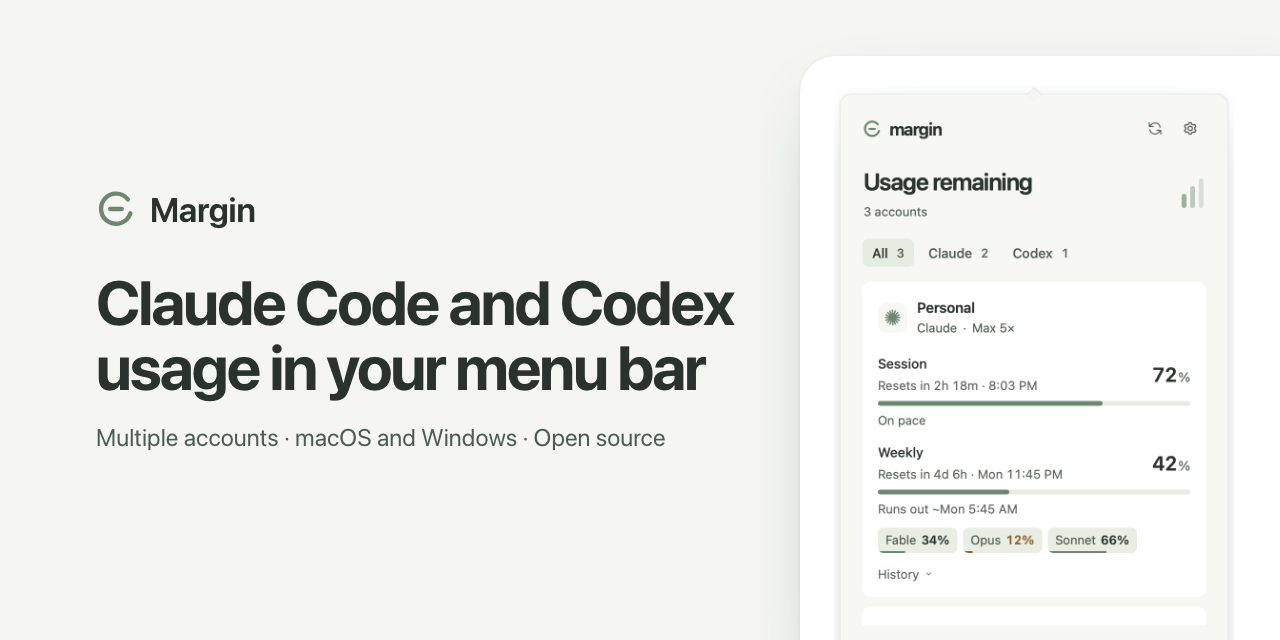
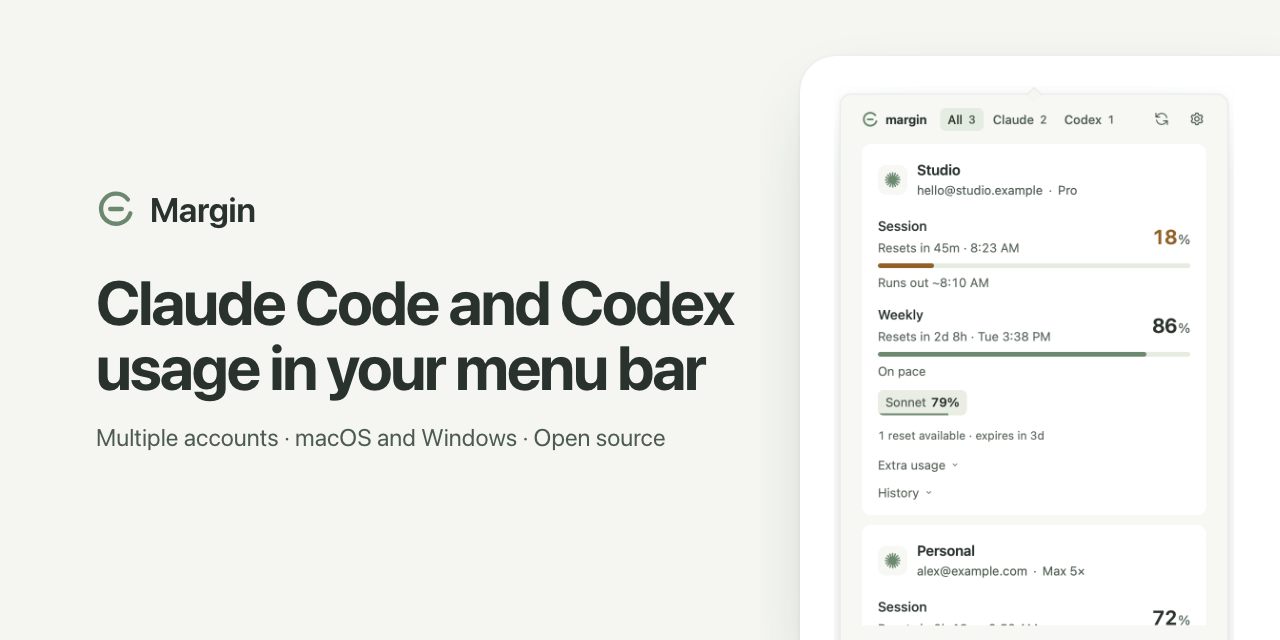
Release v0.6.0

diff --git a/docs/releasing.md b/docs/releasing.md
@@ -60,9 +60,9 @@ This ignored integration test uses the pinned updater plugin and real public key
 
 v0.1.1 and earlier have no updater and need one manual upgrade to the first updater-enabled release. Publish the complete asset set together; a draft does not replace the current public update endpoint. Never edit a published release's signed files or reuse a version. To stop offering a bad release, mark it as a prerelease so the latest-release endpoint returns to the previous stable release, then ship a higher fixed version. Clients already updated do not automatically downgrade.
 
-## Roll back v0.5.1
+## Roll back v0.6.0
 
-Quit Margin and reinstall [v0.5.0](https://github.com/Abulkosim/margin/releases/tag/v0.5.0); the settings format is identical. To go back further, reinstall [v0.4.0](https://github.com/Abulkosim/margin/releases/tag/v0.4.0): it drops the v0.5 fields (`trayMetric`, `trayShowPercent`, `overviewLayout`, `notifyOnReset`, `autoCheckUpdates`, `ignoredSources`, `lastUpdateCheckAt`) with recovery notes and keeps accounts, intervals, theme, and history. Removed accounts may reappear on Find accounts. CLI credentials remain untouched. Report the failed interaction and platform, then ship the fix as a new patch release.
+Quit Margin and reinstall [v0.5.1](https://github.com/Abulkosim/margin/releases/tag/v0.5.1). It ignores the new `accountOrder` setting and keeps everything else. History files keep the same format; v0.6.0 only stores fewer points on flat stretches. To go back further, reinstall [v0.4.0](https://github.com/Abulkosim/margin/releases/tag/v0.4.0): it drops the v0.5 fields (`trayMetric`, `trayShowPercent`, `overviewLayout`, `notifyOnReset`, `autoCheckUpdates`, `ignoredSources`, `lastUpdateCheckAt`) with recovery notes and keeps accounts, intervals, theme, and history. Removed accounts may reappear on Find accounts. CLI credentials remain untouched. Report the failed interaction and platform, then ship the fix as a new patch release.
 
 ## Package managers
 

diff --git a/README.md b/README.md
@@ -43,12 +43,12 @@ CodexBar supports about 100 providers; pick it if you need more than Claude and 
 
 ## Install
 
-Download **v0.5.1** from [GitHub Releases](https://github.com/Abulkosim/margin/releases/latest). It adds a pace line, reset times, model-limit chips, a compact overview, and alerts on by default. Homebrew and winget are not available yet. Step-by-step guide with uninstall: [docs/install.md](docs/install.md).
+Download **v0.6.0** from [GitHub Releases](https://github.com/Abulkosim/margin/releases/latest). It orders accounts by usage remaining, shows emails and sign-in commands inline, and does less work in the background. Homebrew and winget are not available yet. Step-by-step guide with uninstall: [docs/install.md](docs/install.md).
 
 | Platform | Download |
 | --- | --- |
-| macOS 12+ · Apple Silicon and Intel | [Universal DMG](https://github.com/Abulkosim/margin/releases/download/v0.5.1/Margin_0.5.1_universal.dmg) |
-| Windows x64 | [Setup EXE](https://github.com/Abulkosim/margin/releases/download/v0.5.1/Margin_0.5.1_x64-setup.exe) · [MSI](https://github.com/Abulkosim/margin/releases/download/v0.5.1/Margin_0.5.1_x64_en-US.msi) |
+| macOS 12+ · Apple Silicon and Intel | [Universal DMG](https://github.com/Abulkosim/margin/releases/download/v0.6.0/Margin_0.6.0_universal.dmg) |
+| Windows x64 | [Setup EXE](https://github.com/Abulkosim/margin/releases/download/v0.6.0/Margin_0.6.0_x64-setup.exe) · [MSI](https://github.com/Abulkosim/margin/releases/download/v0.6.0/Margin_0.6.0_x64_en-US.msi) |
 
 Builds are not signed with an Apple Developer ID or Windows publisher certificate, so the first launch shows a warning. Updates are signed and verified in the app.
 

diff --git a/changelogs/v0.6.0.md b/changelogs/v0.6.0.md
@@ -1,0 +1,13 @@
+# v0.6.0
+
+2026-10-25 · [Download](https://github.com/Abulkosim/margin/releases/tag/v0.6.0)
+
+- Accounts are ordered by usage remaining, lowest first, with the pinned account on top and signed-out accounts last. The order updates when you open Margin, not while you look. Change it in Settings → Appearance → Account order.
+- Cards show the account's email next to the plan. Signed-out accounts show the exact sign-in command as a button that copies it.
+- Opening Margin after a minute or more returns to the overview at the top.
+- ⌘1 and ⌘2 switch between cards and compact (Ctrl+1 and Ctrl+2 on Windows). In compact, the limit that runs out first is shown in full ink, and the reset time belongs to it. ↑ and ↓ move between rows.
+- "2 accounts need attention" is a button that jumps to the first one.
+- Alerts and their settings use usage remaining, like the rest of the app: "Personal · Session 20% left", with the reset time in the body. The tray tooltip shows when the limit it follows resets.
+- New installs follow the account with the lowest remaining in the tray and start in compact when three or more accounts are found.
+- Margin does less work in the background. Opening it only refreshes readings older than 30 seconds, unchanged readings are stored once, and history files are about a third of their former size.
+- Fixed an account getting stuck on "Checking usage" after Find accounts or a Keychain link changed its source.

diff --git a/docs/plan.md b/docs/plan.md
@@ -89,7 +89,11 @@ Written 2026-10-22 from a code audit, competitor/user-demand research, and distr
 - [ ] **3.13 Launch posts 👤** — drafts prepared by loop, posted by owner in own words, spaced over days: r/ClaudeAI (showcase flair), r/ClaudeCode, r/codex, r/macapps, r/windowsapps, X clip. Show HN last, after 3.1–3.4, owner-written. Drafts ready 2026-10-22 in `docs/launch/posts.md`; r/macapps main feed needs 100★ or 1 year → megathread PCP comment instead.
 - [ ] **3.14 SignPath Foundation application 👤** once there are some stars/releases (free Windows Authenticode).
 
-## Phase 4 — Depth (v0.6+)
+## Release v0.6.0 — comfort and efficiency (published 2026-10-25)
+
+From a performance and usability audit on 2026-10-25: buffered settings/history writes, run-length history with a per-window cap, skipped identical tray renders, open-only refresh of stale readings, Codex reset-credit cache, stuck-refresh fix, urgency ordering, inline email and sign-in command, reset view on reopen, ⌘1/⌘2, remaining-based alerts and tooltip reset time, new-install defaults (tray follows lowest, compact for 3+ accounts). Evidence in `docs/verification.md`.
+
+## Phase 4 — Depth (v0.7+)
 
 - [ ] **4.1 Burn-rate alerts** ("used 20% in the last hour"), quiet by default.
 - [ ] **4.2 Credits / extra-usage balance** on the card (Claude extra_usage already parsed; Codex credits if present).

diff --git a/CHANGELOG.md b/CHANGELOG.md
@@ -2,6 +2,7 @@
 
 | Version | Date (UTC) | Changes |
 | --- | --- | --- |
+| [v0.6.0](changelogs/v0.6.0.md) | 2026-10-25 | Accounts ordered by urgency, emails and sign-in commands inline, layout shortcuts, lighter background work. |
 | [v0.5.1](changelogs/v0.5.1.md) | 2026-10-23 | Popover opens straight on the accounts. |
 | [v0.5.0](changelogs/v0.5.0.md) | 2026-10-22 | Pace line, model chips, compact overview, notifications on by default, daily update check, clearer tray icon. |
 | [v0.4.0](changelogs/v0.4.0.md) | 2026-10-22 | Keychain accounts on Mac, signed-out state, wake refresh, settings recovery. |
